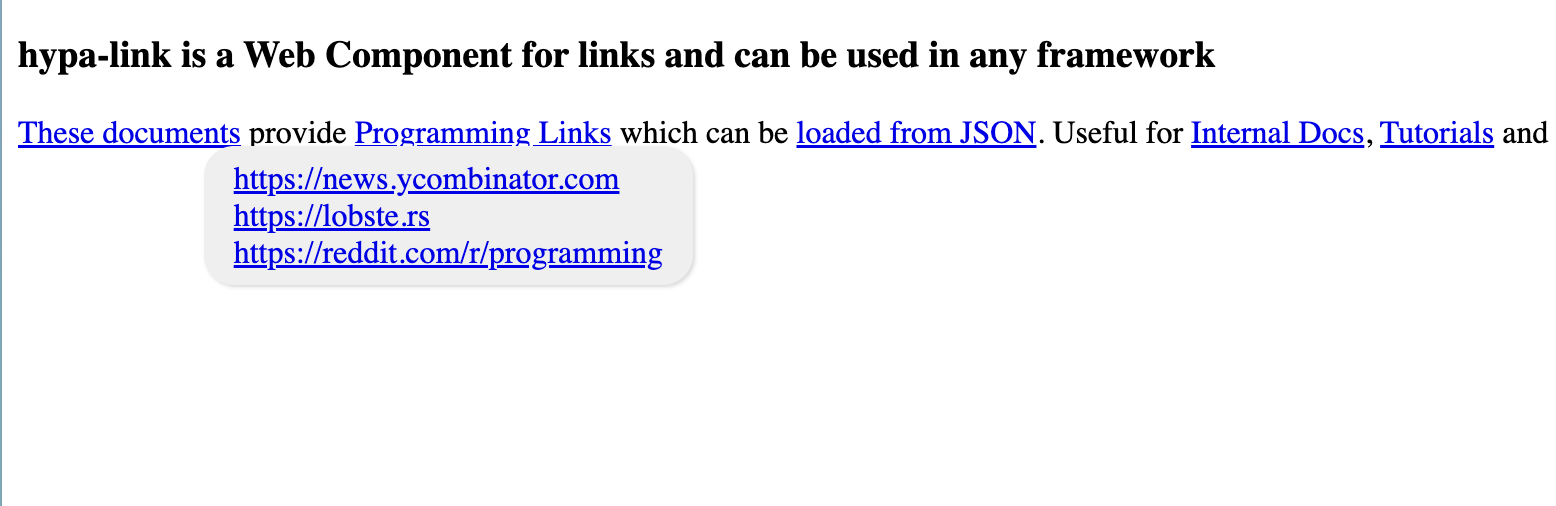
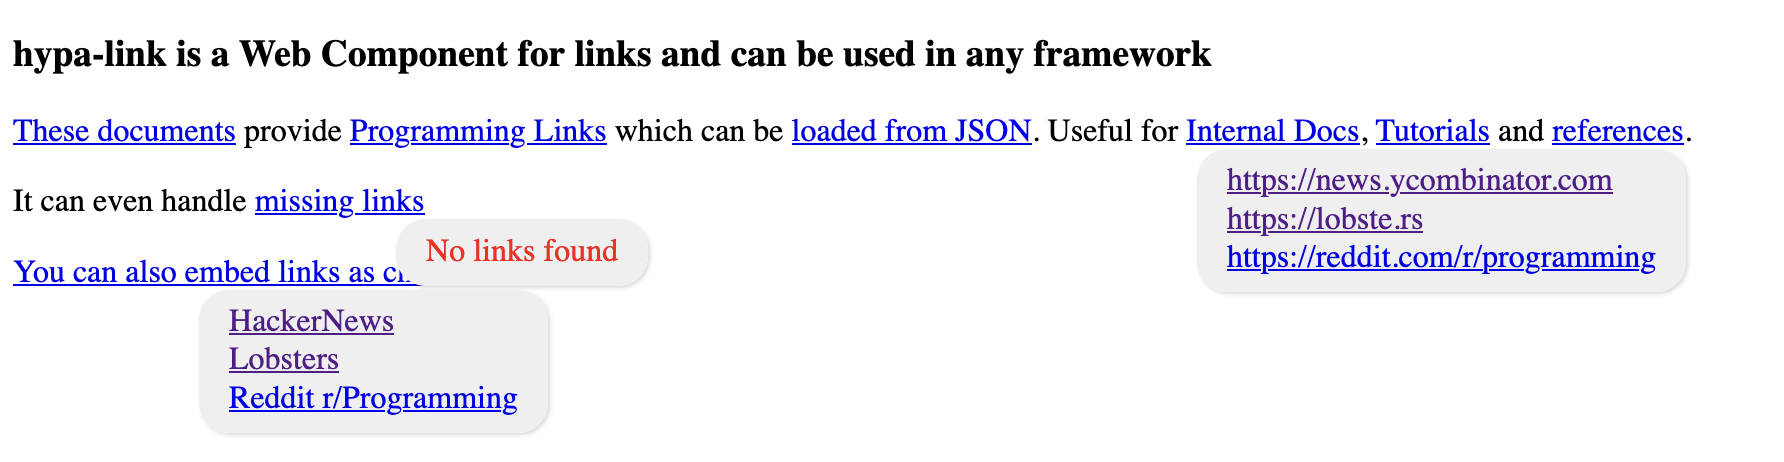
fix: show URL text and parse text from json sources

diff --git a/hypalink.js b/hypalink.js
@@ -14,7 +14,7 @@ class Hypalink extends HTMLElement {
 		this.listEl = document.createElement('ul');
 		this.listEl.style = 'position: absolute; z-index: 99999; background: #efefef; padding: 7px 15px; border-radius: 15px; width: fit-content; list-style-type: none; box-shadow: 1px 1px 2px rgba(0,0,0,0.15);'
 		this.listEl.classList.add('hypalink-list-hidden');
-		this.links = [];
+		this.links = []; // entries have shape: { url: "", text: "" }
 		this.extractLinks();
 	}
 
@@ -28,11 +28,11 @@ class Hypalink extends HTMLElement {
 			return;
 		}
 		const liNodes = []
-		for (var link of this.links) {
+		for (var e of this.links) {
 			const a = document.createElement("a");
-			a.setAttribute("href", link)
+			a.setAttribute("href", e["url"])
 			a.setAttribute("target", "_blank") // TODO: configurable
-			a.textContent = link;
+			a.textContent = e["text"];
 			const li = document.createElement("li");
 			li.appendChild(a)
 			liNodes.push(li)
@@ -49,7 +49,7 @@ class Hypalink extends HTMLElement {
 				if (c instanceof HTMLAnchorElement) {
 					const url = c.getAttribute('href');
 					if (url) {
-						this.links.push(url)
+						this.links.push({ url, text: c.textContent })
 					}
 				}
 			}
@@ -66,7 +66,7 @@ class Hypalink extends HTMLElement {
 		if (srchrefs) {
 			srchrefs.split(",")
 				.filter(e => URL.canParse(e))
-				.map(url => this.links.push(url));
+				.map(url => this.links.push({ url, text: url }));
 			this.renderLinks();
 		}
 
@@ -87,11 +87,11 @@ class Hypalink extends HTMLElement {
 				if (data instanceof Array) {
 					// .filter(e => !e["url"])
 					data.filter(e => URL.canParse(e["url"]))
-						.map(entry => _that.links.push(entry["url"]))
+						.map(entry => _that.links.push(entry))
 				} else {
 					const lines = `${data}`.split('\n');
 					lines.filter(e => URL.canParse(e))
-						.map(url => _that.links.push(url));
+						.map(url => _that.links.push({ url, text: url }));
 				}
 			})
 				.finally(_ => this.renderLinks())
